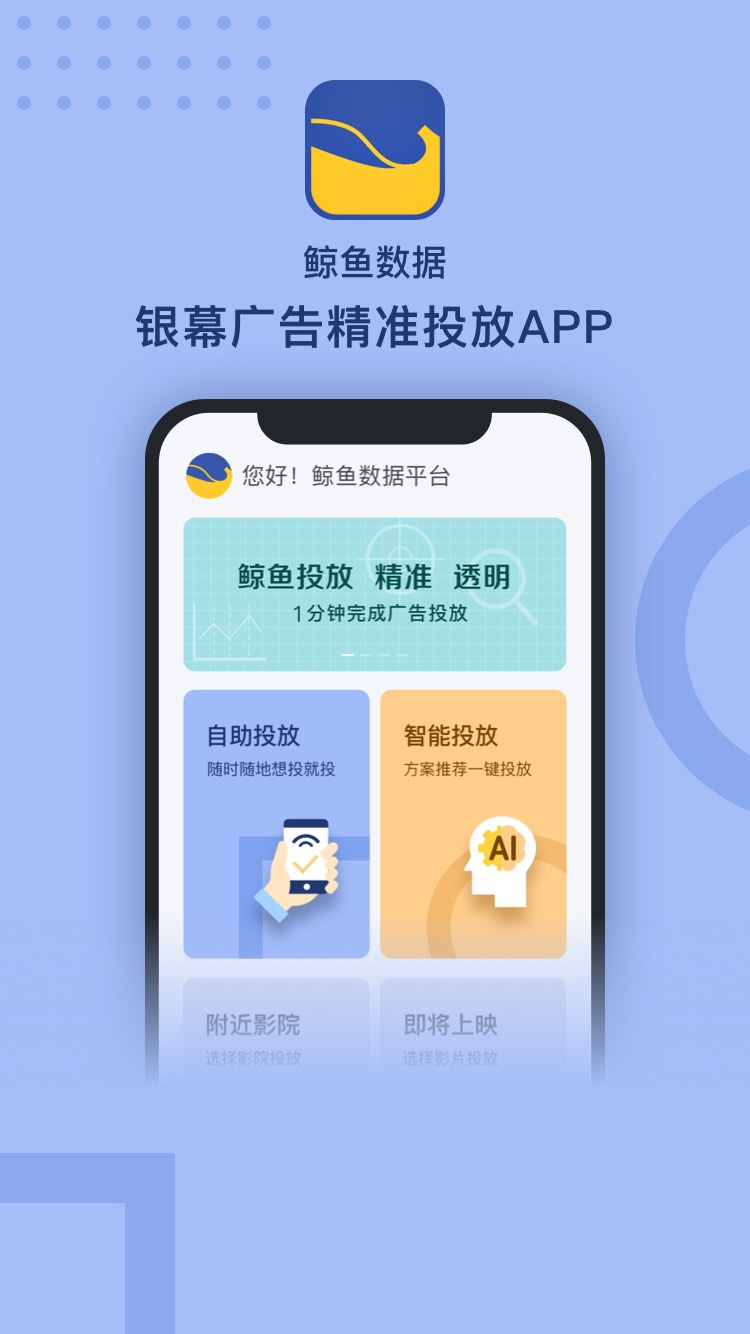
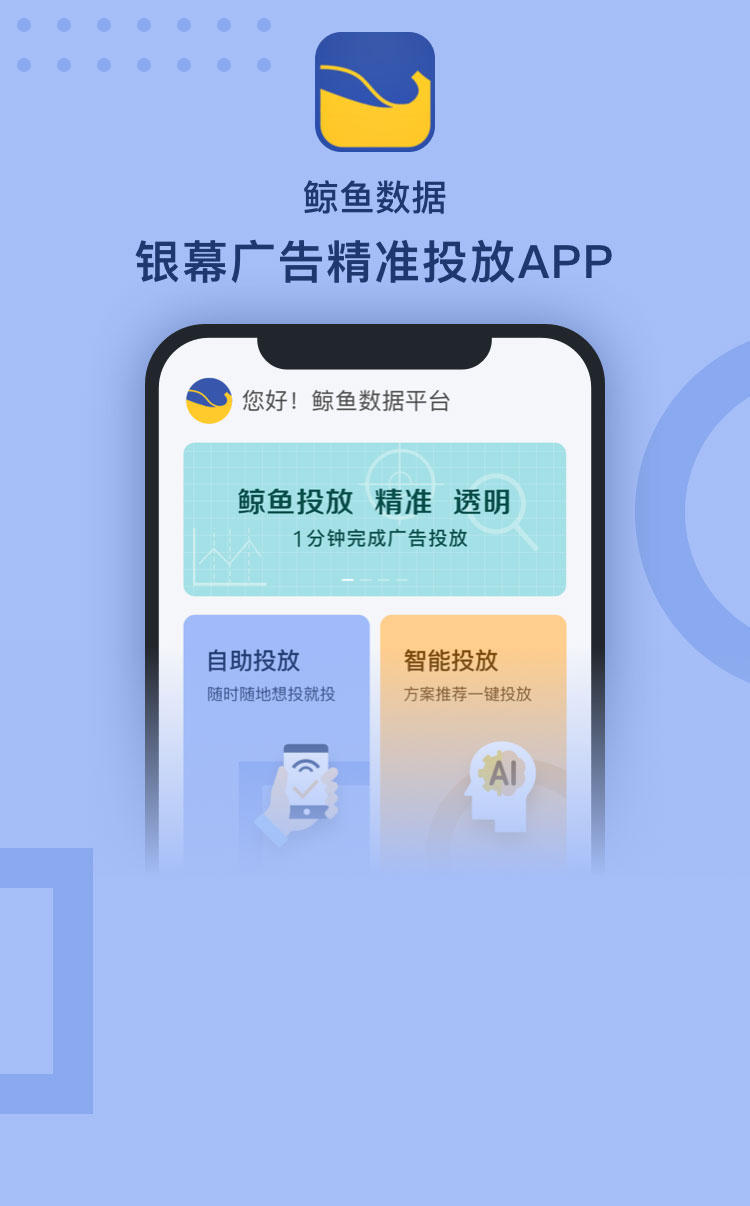
Fix: 修改广告主端下载页显示不全的BUG

diff --git a/src/views/downLoad/download.vue b/src/views/downLoad/download.vue
@@ -56,7 +56,7 @@ export default class DownloadCinema extends Vue {
 <style lang="less" scoped>
 .download {
   height: 100%;
-  background: url('./assets/adbg.jpg') no-repeat center bottom #a5bef8;
+  background: url('./assets/adbg.jpg') no-repeat center 0 #a5bef8;
   background-size: 100% auto;
   padding-top: 1px;
 }
@@ -64,7 +64,7 @@ export default class DownloadCinema extends Vue {
 .btnbox {
   text-align: center;
   position: absolute;
-  bottom: 70px;
+  top: 950px;
   left: 0;
   width: 100%;
   a {
@@ -80,7 +80,7 @@ export default class DownloadCinema extends Vue {
     box-shadow: 0 4px 20px rgba(43, 69, 128, 0.3);
   }
   p {
-    margin-top: 14px;
+    margin-top: 30px;
     color: #1e386f;
     font-size: 24px;
     line-height: 33px;
